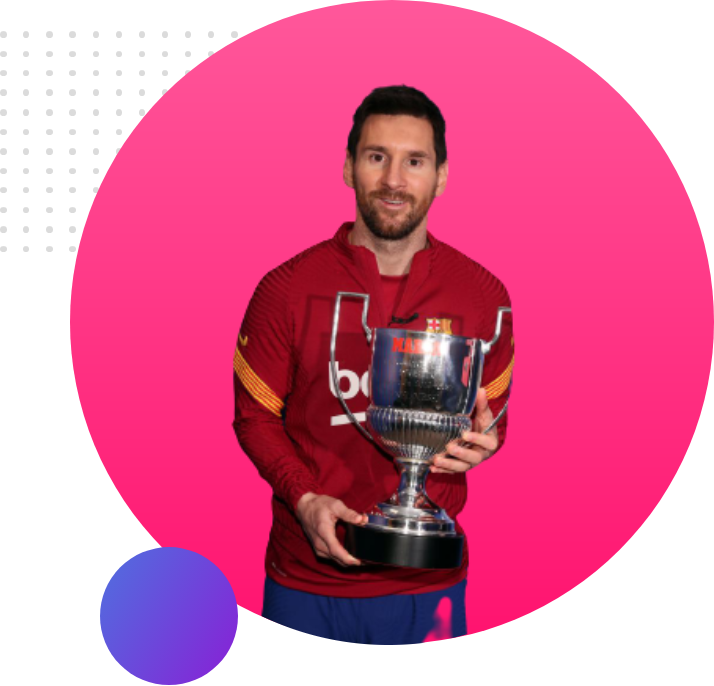
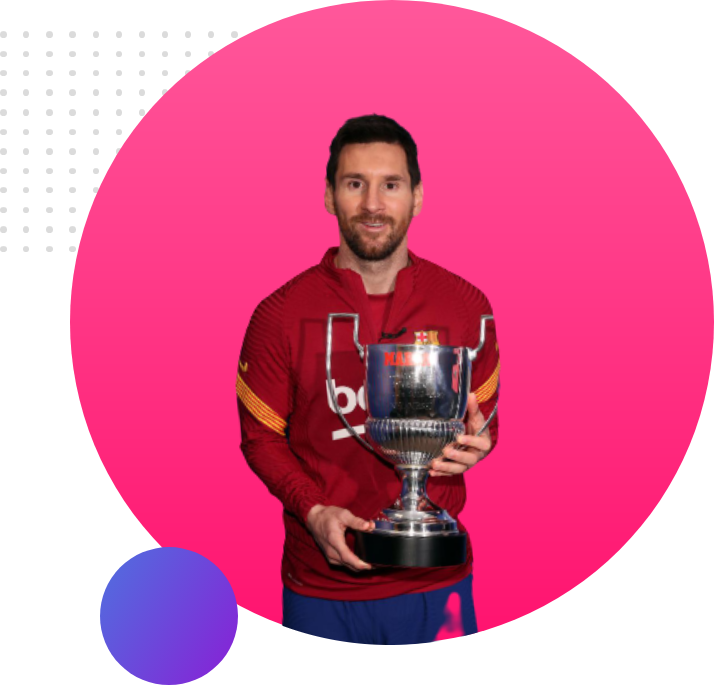
middle-section-added

Changed region(s): [[0.3081, 0.1224, 0.7395, 0.949]]

diff --git a/index.html b/index.html
@@ -16,20 +16,32 @@
     <section class="top-section">
         <div class="half-width">
             <h1>Welcome To</h1>
-            <h1>Welcome To</h1>
             <h1><span class="name-color">Leo Messi's </span>World</h1>
             <h3>Build Climber and Train Stopper</h3>
             <p>You might saw me jumping, climbing buildings, and stopping trains. But nobody pays me a dime for that
-                work.
-                That's why I am learning and mastering web development. I will not stop until I become the Web
-                Development
-                Hero.
+                work. That's why I am learning and mastering web development. I will not stop until I become the Web
+                Development Hero.
             </p>
-            <a class="hire-me" target="_blank" href="http://www.google.com">HIRE ME</a>
+            <a class="link-button" target="_blank" href="http://www.google.com">HIRE ME</a>
         </div>
 
         <div class="half-width">
             <img class="messi-rise-trophy" src="images/messi-rise-trophy.png" alt="messi with trophy">
+        </div>
+    </section>
+
+    <section class="middle-section">
+        <div class="half-width">
+            <img class="messi-rise-trophy" src="images/messi-with-trophy.png" alt="messi with trophy">
+        </div>
+        <div class="half-width">
+            <h1>Dream Big</h1>
+            <h3>Become a web developer</h3>
+            <p>
+                I already learned the basic HTML and CSS. I can build any simple website. I can even teach my grandma
+                how to make simple website. My goal is to build 3 websites and learn advanced topics.
+            </p>
+            <a class="link-button" target="_blank" href="http://www.google.com">DOWNLOAD RESUME</a>
         </div>
     </section>
 

diff --git a/style.css b/style.css
@@ -10,6 +10,7 @@ h1 {
 }
 section {
   display: flex;
+  margin-bottom: 150px;
 }
 .half-width {
   width: 50%;
@@ -18,7 +19,7 @@ section {
 .half-width img {
   width: 80%;
 }
-.hire-me {
+.link-button {
   background-image: linear-gradient(orange, tomato);
   text-decoration: none;
   padding: 10px 40px;
@@ -29,4 +30,15 @@ section {
 .top-section {
   background-image: url(images/top-banner.png);
   background-repeat: no-repeat;
+  padding-left: 30px;
+}
+
+.middle-section {
+  background-image: url(images/dream-bg.png);
+  background-repeat: no-repeat;
+  background-position: right;
+  padding-right: 150px;
+}
+.middle-section .messi-rise-trophy {
+  width: 90%;
 }
